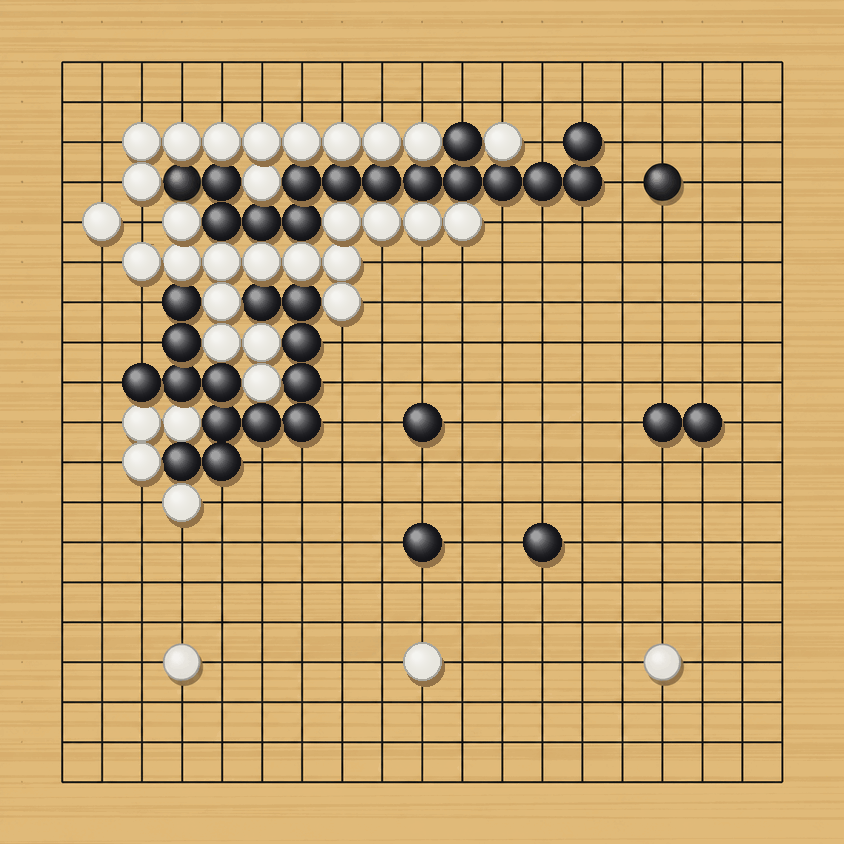
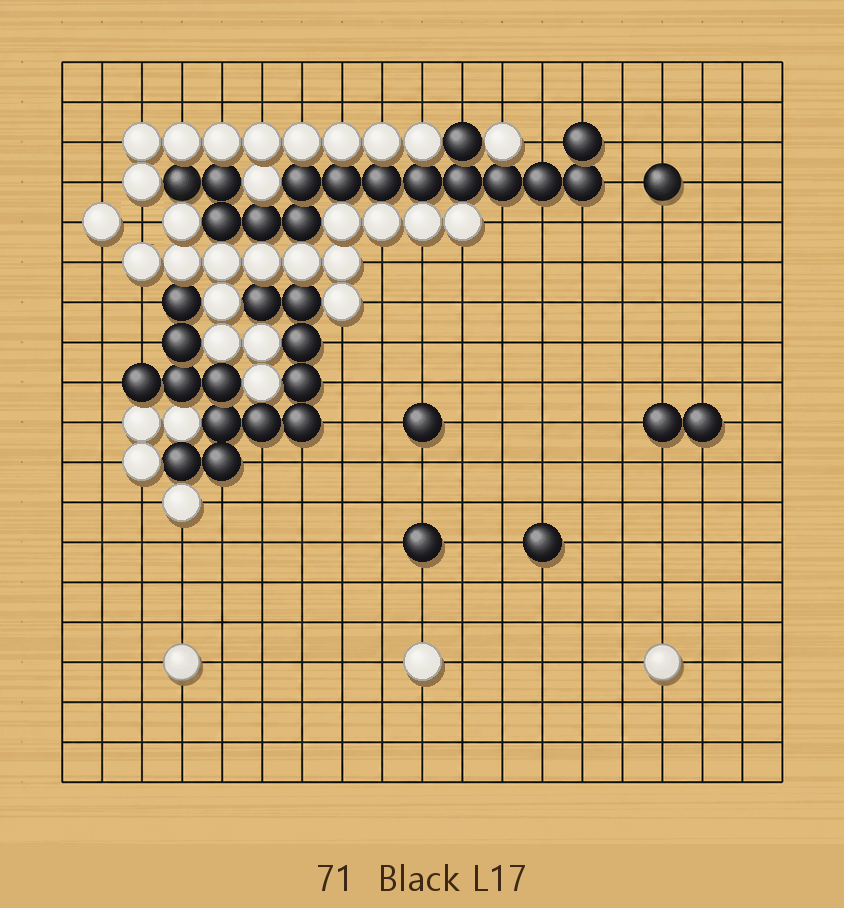
Label the last move below the board

Changed region(s): [[0.0616, 0.0616, 0.955, 0.9858]]

diff --git a/annotate_move.py b/annotate_move.py
@@ -1,0 +1,40 @@
+"""Append the last move's number and coordinate below the board image.
+
+    python annotate_move.py <image> <move-number> <B|W> <coord>
+
+The strip goes outside the grid, so `baduk_tools.read` is unaffected.
+"""
+import os
+import sys
+
+from PIL import Image, ImageDraw, ImageFont
+
+STRIP = 64
+
+
+def font(size):
+    for name in ("malgun.ttf", "arial.ttf", "DejaVuSans.ttf"):
+        for base in (r"C:\Windows\Fonts", "/usr/share/fonts/truetype/dejavu"):
+            path = os.path.join(base, name)
+            if os.path.exists(path):
+                return ImageFont.truetype(path, size)
+    return ImageFont.load_default()
+
+
+def annotate(path, number, color, coord):
+    img = Image.open(path).convert("RGB")
+    w, h = img.size
+    bg = img.getpixel((8, h // 2))
+    out = Image.new("RGB", (w, h + STRIP), bg)
+    out.paste(img, (0, 0))
+    draw = ImageDraw.Draw(out)
+    label = f"{number}  {'Black' if color == 'B' else 'White'} {coord}"
+    draw.text((w // 2, h + STRIP // 2), label, fill=(60, 40, 20),
+              anchor="mm", font=font(int(STRIP * 0.55)))
+    out.save(path)
+    return label
+
+
+if __name__ == "__main__":
+    path, number, color, coord = sys.argv[1], sys.argv[2], sys.argv[3], sys.argv[4]
+    print(annotate(path, number, color, coord), "->", path)
